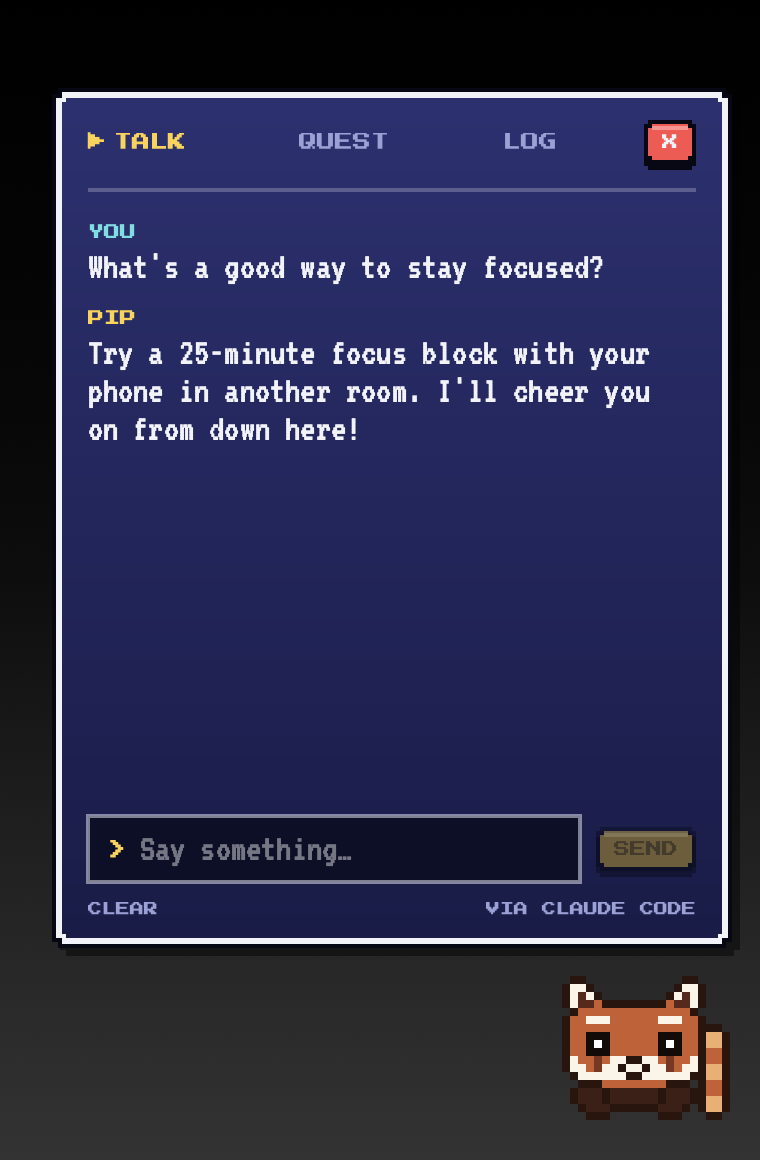
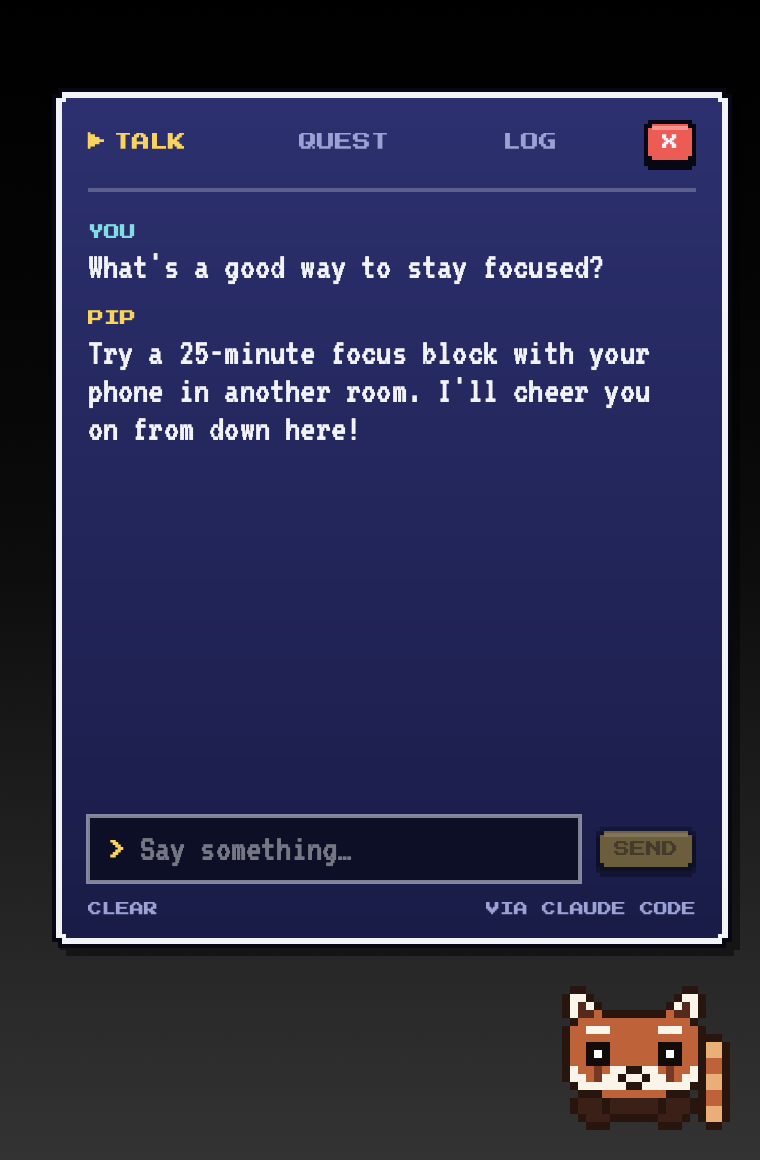
Center Pip evenly in the corner and add a hover reaction
The gap below the sprite now matches the gap beside it (27pt from both
screen edges). When the cursor arrives, Pip does a small hop and looks up
with a new curious face (sparkly eyes, small open mouth). The hop has a
0.5s cooldown so quick back-and-forth doesn't make it bounce nonstop.

Changed region(s): [[0.7263, 0.8379, 0.9684, 0.9931]]

diff --git a/Sources/PetView.swift b/Sources/PetView.swift
@@ -12,6 +12,8 @@ enum Sprite {
     static var rows: Int { body.count }
     static var width: CGFloat { cell * CGFloat(cols) }
     static var height: CGFloat { cell * CGFloat(rows) }
+    /// Space between the sprite and the edge of the pet area, used on both the right and bottom.
+    static var sideGap: CGFloat { (Layout.petSize - width) / 2 }
 
     /// A little sitting red panda with its ringed tail curled up behind it.
     static let body: [String] = [
@@ -68,6 +70,9 @@ enum Sprite {
             switch mood {
             case .happy:  // ^ ^
                 px += [(ex, e + 1, K), (ex + 1, e, K), (ex + 2, e + 1, K)]
+            case .curious:  // sparkly eyes looking right at you: two glints
+                for r in e...(e + 2) { for c in 0..<3 { px.append((ex + c, r, P)) } }
+                px += [(ex, e, E), (ex + 2, e + 2, E)]
             case .sleepy:  // peacefully closed
                 px += [(ex, e + 1, K), (ex + 1, e + 1, K), (ex + 2, e + 1, K)]
             case _ where blink:
@@ -91,6 +96,8 @@ enum Sprite {
         switch mood {
         case .happy:
             px += [(7, m, K), (8, m, M), (9, m, M), (10, m, K), (8, m + 1, M), (9, m + 1, M)]
+        case .curious:  // small curious "oh"
+            px += [(8, m, M), (9, m, M)]
         case .alert:
             px += [(8, m, M), (9, m, M), (8, m + 1, M), (9, m + 1, M)]
         case .thinking:
@@ -117,7 +124,7 @@ struct PetView: View {
         let mood = m.mood
         let gaze = (x: Int(eyes.look.dx) + 1, y: 1 - Int(eyes.look.dy))
         let face = Sprite.face(mood: mood, gaze: gaze, blink: eyes.blink)
-        let cheekAlpha = mood == .happy ? 1.0 : 0.0
+        let cheekAlpha = mood == .happy ? 1.0 : (mood == .curious ? 0.6 : 0.0)
 
         ZStack(alignment: .topLeading) {
             Canvas { ctx, _ in
@@ -136,7 +143,8 @@ struct PetView: View {
                 for (c, r, ch) in face { dot(c, r, Sprite.colors[ch]!) }
             }
             .frame(width: Sprite.width, height: Sprite.height)
-            .offset(x: (Layout.petSize - Sprite.width) / 2, y: Layout.petSize - Sprite.height - 6)
+            // Same gap below the sprite as beside it, so Pip sits evenly in the corner.
+            .offset(x: Sprite.sideGap, y: Layout.petSize - Sprite.height - Sprite.sideGap)
 
             // Mood decorations, top-right of the head
             Group {

diff --git a/Sources/main.swift b/Sources/main.swift
@@ -276,6 +276,22 @@ final class AppDelegate: NSObject, NSApplicationDelegate {
         layer.add(a, forKey: "fidget")
     }
 
+    /// When the cursor arrives, Pip perks up with a quick two-pixel hop. A short
+    /// cooldown keeps quick back-and-forth movements from making it bounce nonstop.
+    static let hoverHopCooldown: TimeInterval = 0.5
+    private var lastHoverHop = Date.distantPast
+    func hoverHop() {
+        guard Date().timeIntervalSince(lastHoverHop) > Self.hoverHopCooldown,
+              let layer = petHost?.layer else { return }
+        lastHoverHop = Date()
+        let px = Sprite.cell
+        let a = CAKeyframeAnimation(keyPath: "transform.translation.y")
+        a.values = [px, px * 2, px, 0]
+        a.calculationMode = .discrete
+        a.duration = 0.26
+        layer.add(a, forKey: "hop")
+    }
+
     /// A one-pixel hop when the pet is clicked.
     func boing() {
         guard let layer = petHost?.layer else { return }
@@ -324,7 +340,11 @@ final class AppDelegate: NSObject, NSApplicationDelegate {
         let overCard = model.expanded && Layout.cardRect.contains(local)
         let interactive = overPet || overCard
         if panel.ignoresMouseEvents == interactive { panel.ignoresMouseEvents = !interactive }
-        if model.hovering != overPet { model.hovering = overPet; model.refreshMood() }
+        if model.hovering != overPet {
+            model.hovering = overPet
+            model.refreshMood()
+            if overPet { hoverHop() }
+        }
 
         guard p != lastMouse else { return }
         lastMouse = p

diff --git a/Sources/PetModel.swift b/Sources/PetModel.swift
@@ -3,7 +3,8 @@ import SwiftUI
 
 /// What the pet is "feeling". Drives its face and animation.
 enum Mood: Equatable {
-    case idle, happy, sleepy, thinking, focus, alert
+    /// `curious` is the hover face: sparkly eyes looking at you and a small "oh" mouth.
+    case idle, happy, curious, sleepy, thinking, focus, alert
 }
 
 /// Fixed geometry of the overlay window. Everything is anchored to the
@@ -77,7 +78,8 @@ final class PetModel: ObservableObject {
     private func computeMood() -> Mood {
         if pomodoro.justFinished { return .alert }
         if chat.isLoading { return .thinking }
-        if Date().timeIntervalSince(lastPetted) < 2.5 || hovering { return .happy }
+        if Date().timeIntervalSince(lastPetted) < 2.5 { return .happy }
+        if hovering { return .curious }
         if pomodoro.isRunning && pomodoro.phase == .focus { return .focus }
         if Date().timeIntervalSince(idleSince) > 10 * 60 { return .sleepy }
         let hour = Calendar.current.component(.hour, from: Date())

diff --git a/tools/snapshot/main.swift b/tools/snapshot/main.swift
@@ -51,6 +51,16 @@ MainActor.assumeIsolated {
         render(v, size: CGSize(width: 120, height: 120), to: "\(out)/pet-\(name).png", dark: false)
     }
 
+    // Hovered: the curious face.
+    do {
+        let m = PetModel()
+        m.forceMood(.curious)
+        m.hovering = true
+        let v = Backdrop(dark: false) { PetView(m: m, eyes: m.eyes).frame(width: Layout.petSize, height: Layout.petSize).padding(8) }
+            .frame(width: 120, height: 120)
+        render(v, size: CGSize(width: 120, height: 120), to: "\(out)/pet-hover.png", dark: false)
+    }
+
     // All moods in one strip, for the README.
     let strip = HStack(spacing: 18) {
         ForEach(Array(moods.enumerated()), id: \.offset) { _, item in

diff --git a/Sources/CardView.swift b/Sources/CardView.swift
@@ -19,7 +19,7 @@ struct RootView: View {
 
             TimerHUD(pomodoro: m.pomodoro)
                 .padding(.trailing, Layout.margin + Layout.petSize + 4)
-                .padding(.bottom, Layout.margin + 6)
+                .padding(.bottom, Layout.margin + Sprite.sideGap)
                 .allowsHitTesting(false)
         }
         .frame(width: Layout.windowSize.width, height: Layout.windowSize.height)

diff --git a/README.md b/README.md
@@ -23,8 +23,9 @@ focus timer, and a notepad.
   bar. While a timer runs or is paused, a small status window sits next to Pip.
   When time's up, Pip shows a "!" badge, hops, and plays a level-up jingle.
 - **Log.** A scratchpad that saves automatically.
-- **A pet with moods.** Pip's eyes follow your cursor and it blinks. It looks
-  happy when you hover or click, determined during a focus session, and shows
+- **A pet with moods.** Pip's eyes follow your cursor and it blinks. When you
+  hover over it, it does a little hop and looks up at you with sparkly eyes. It
+  looks happy when you click, determined during a focus session, and shows
   "..." while Claude is replying. It falls asleep after 10 minutes without mouse
   movement. If a reply arrives while the menu is closed, a small cyan dot
   appears on its ear.
